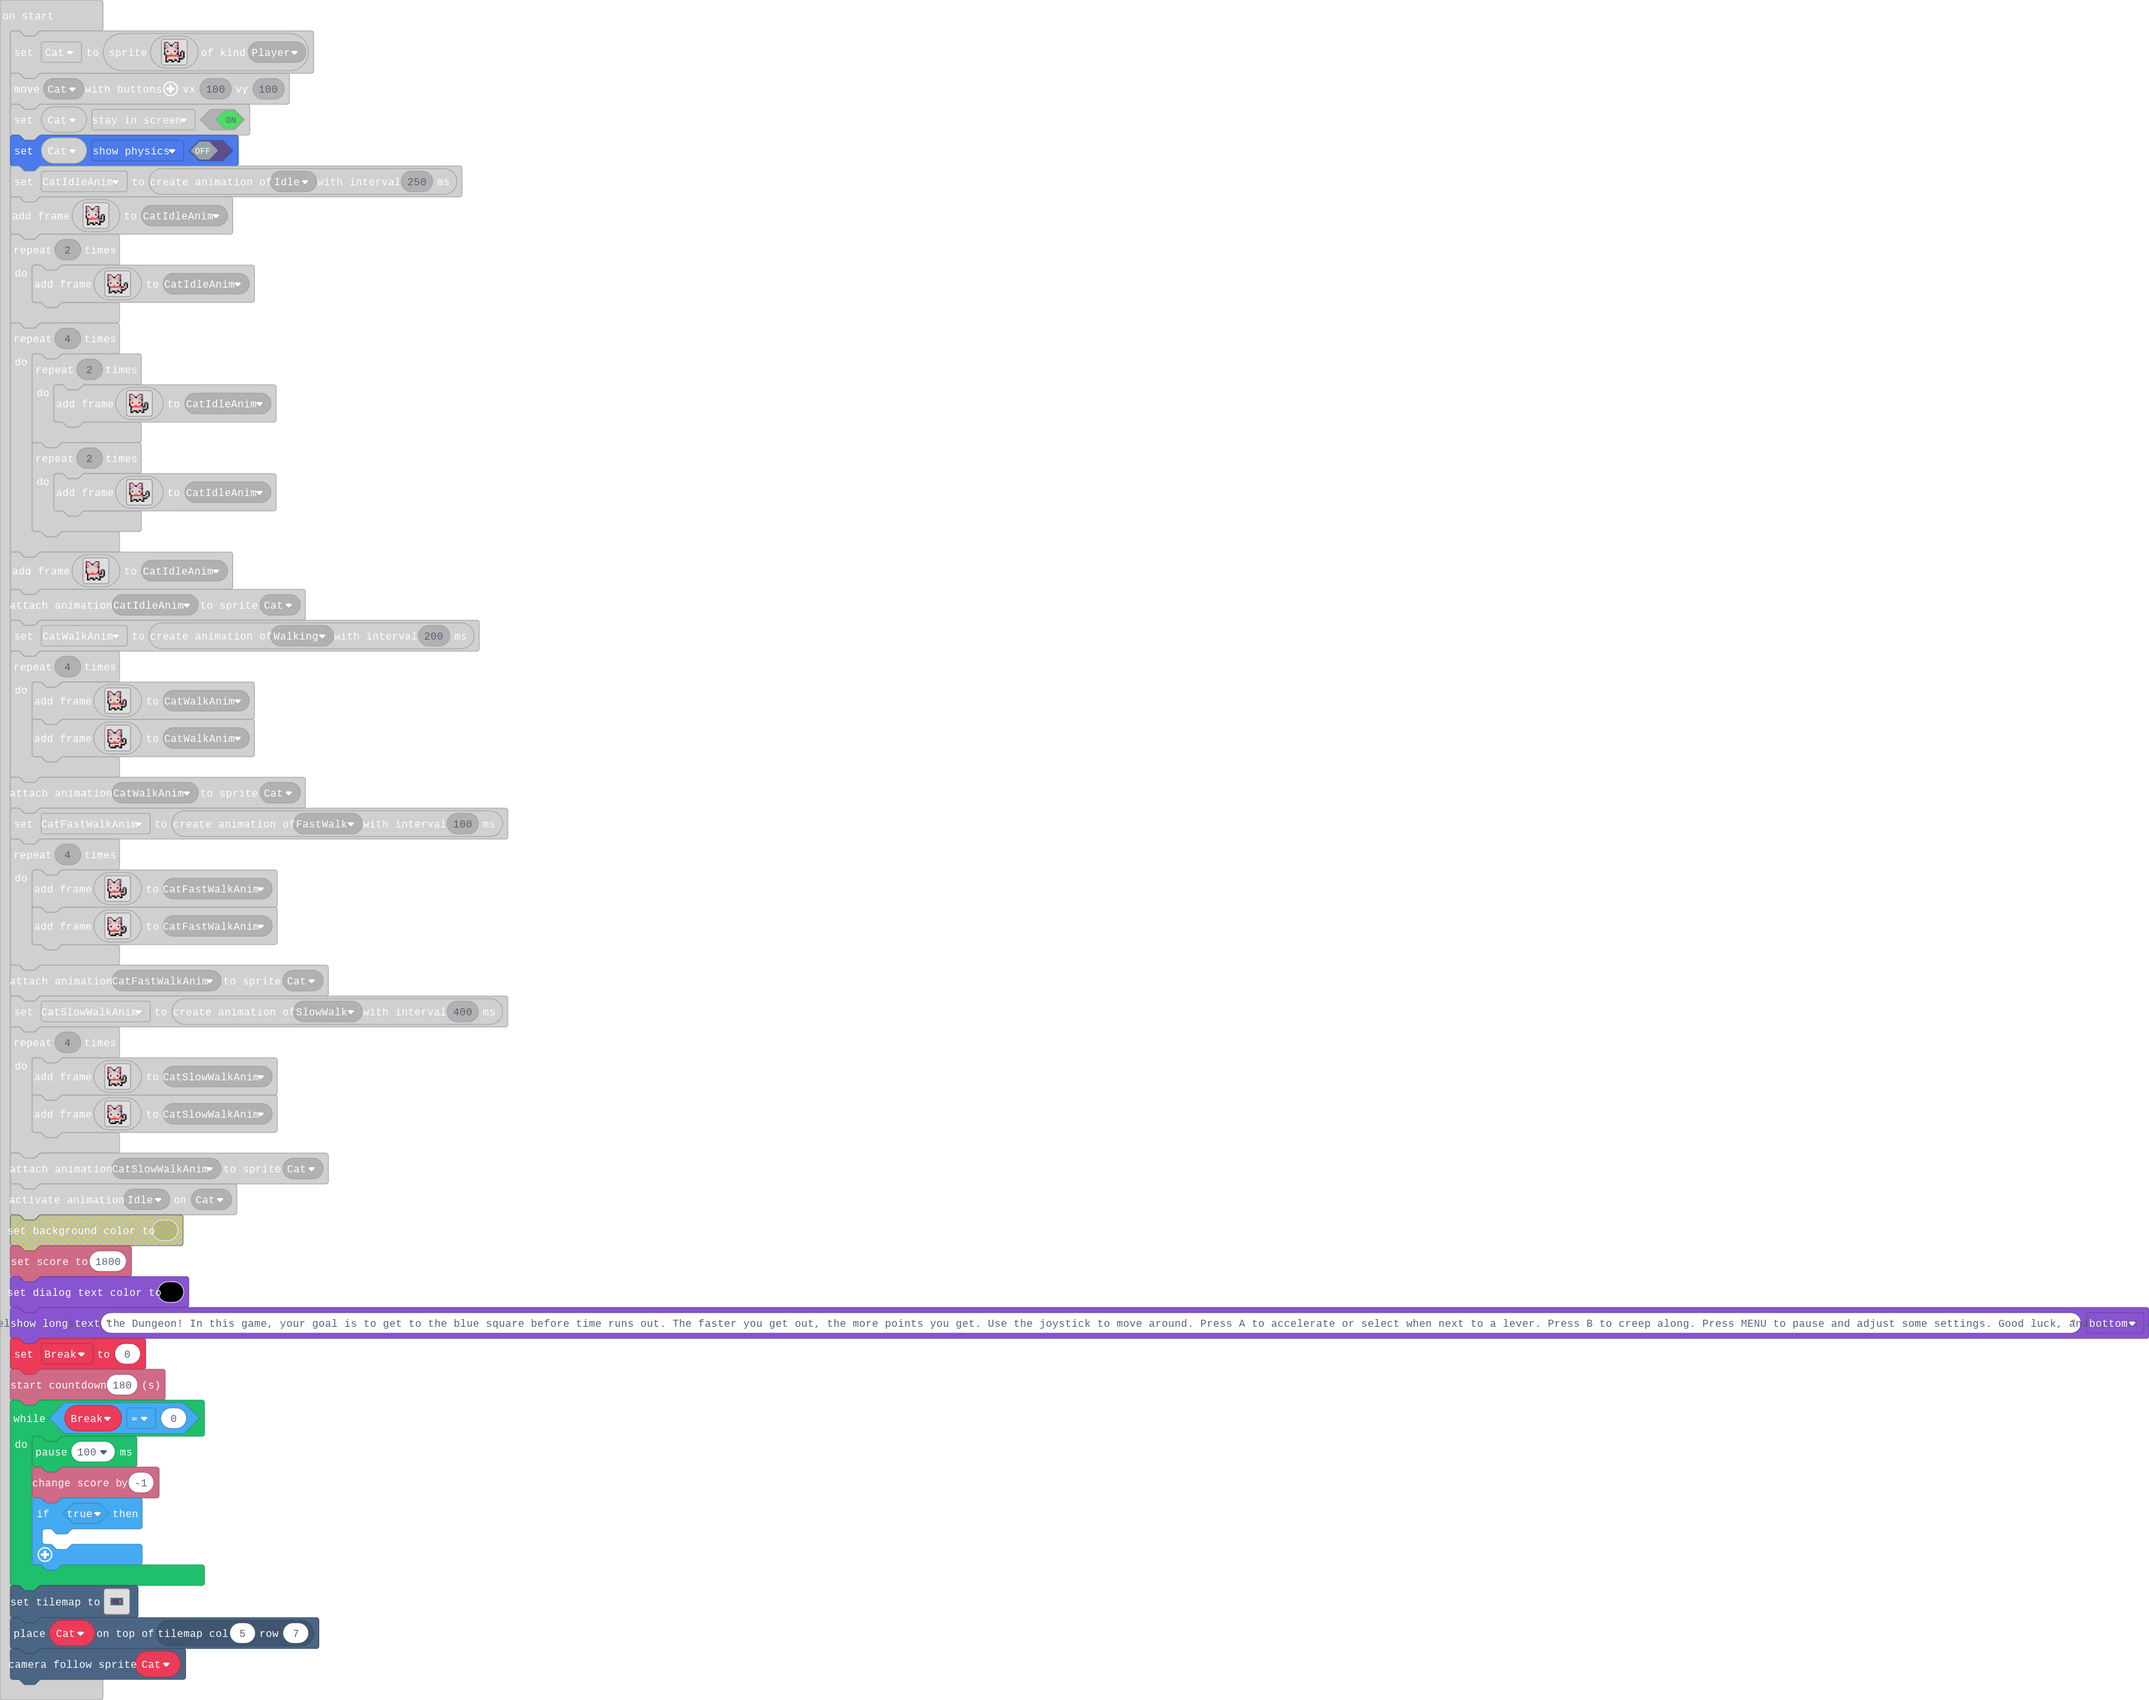
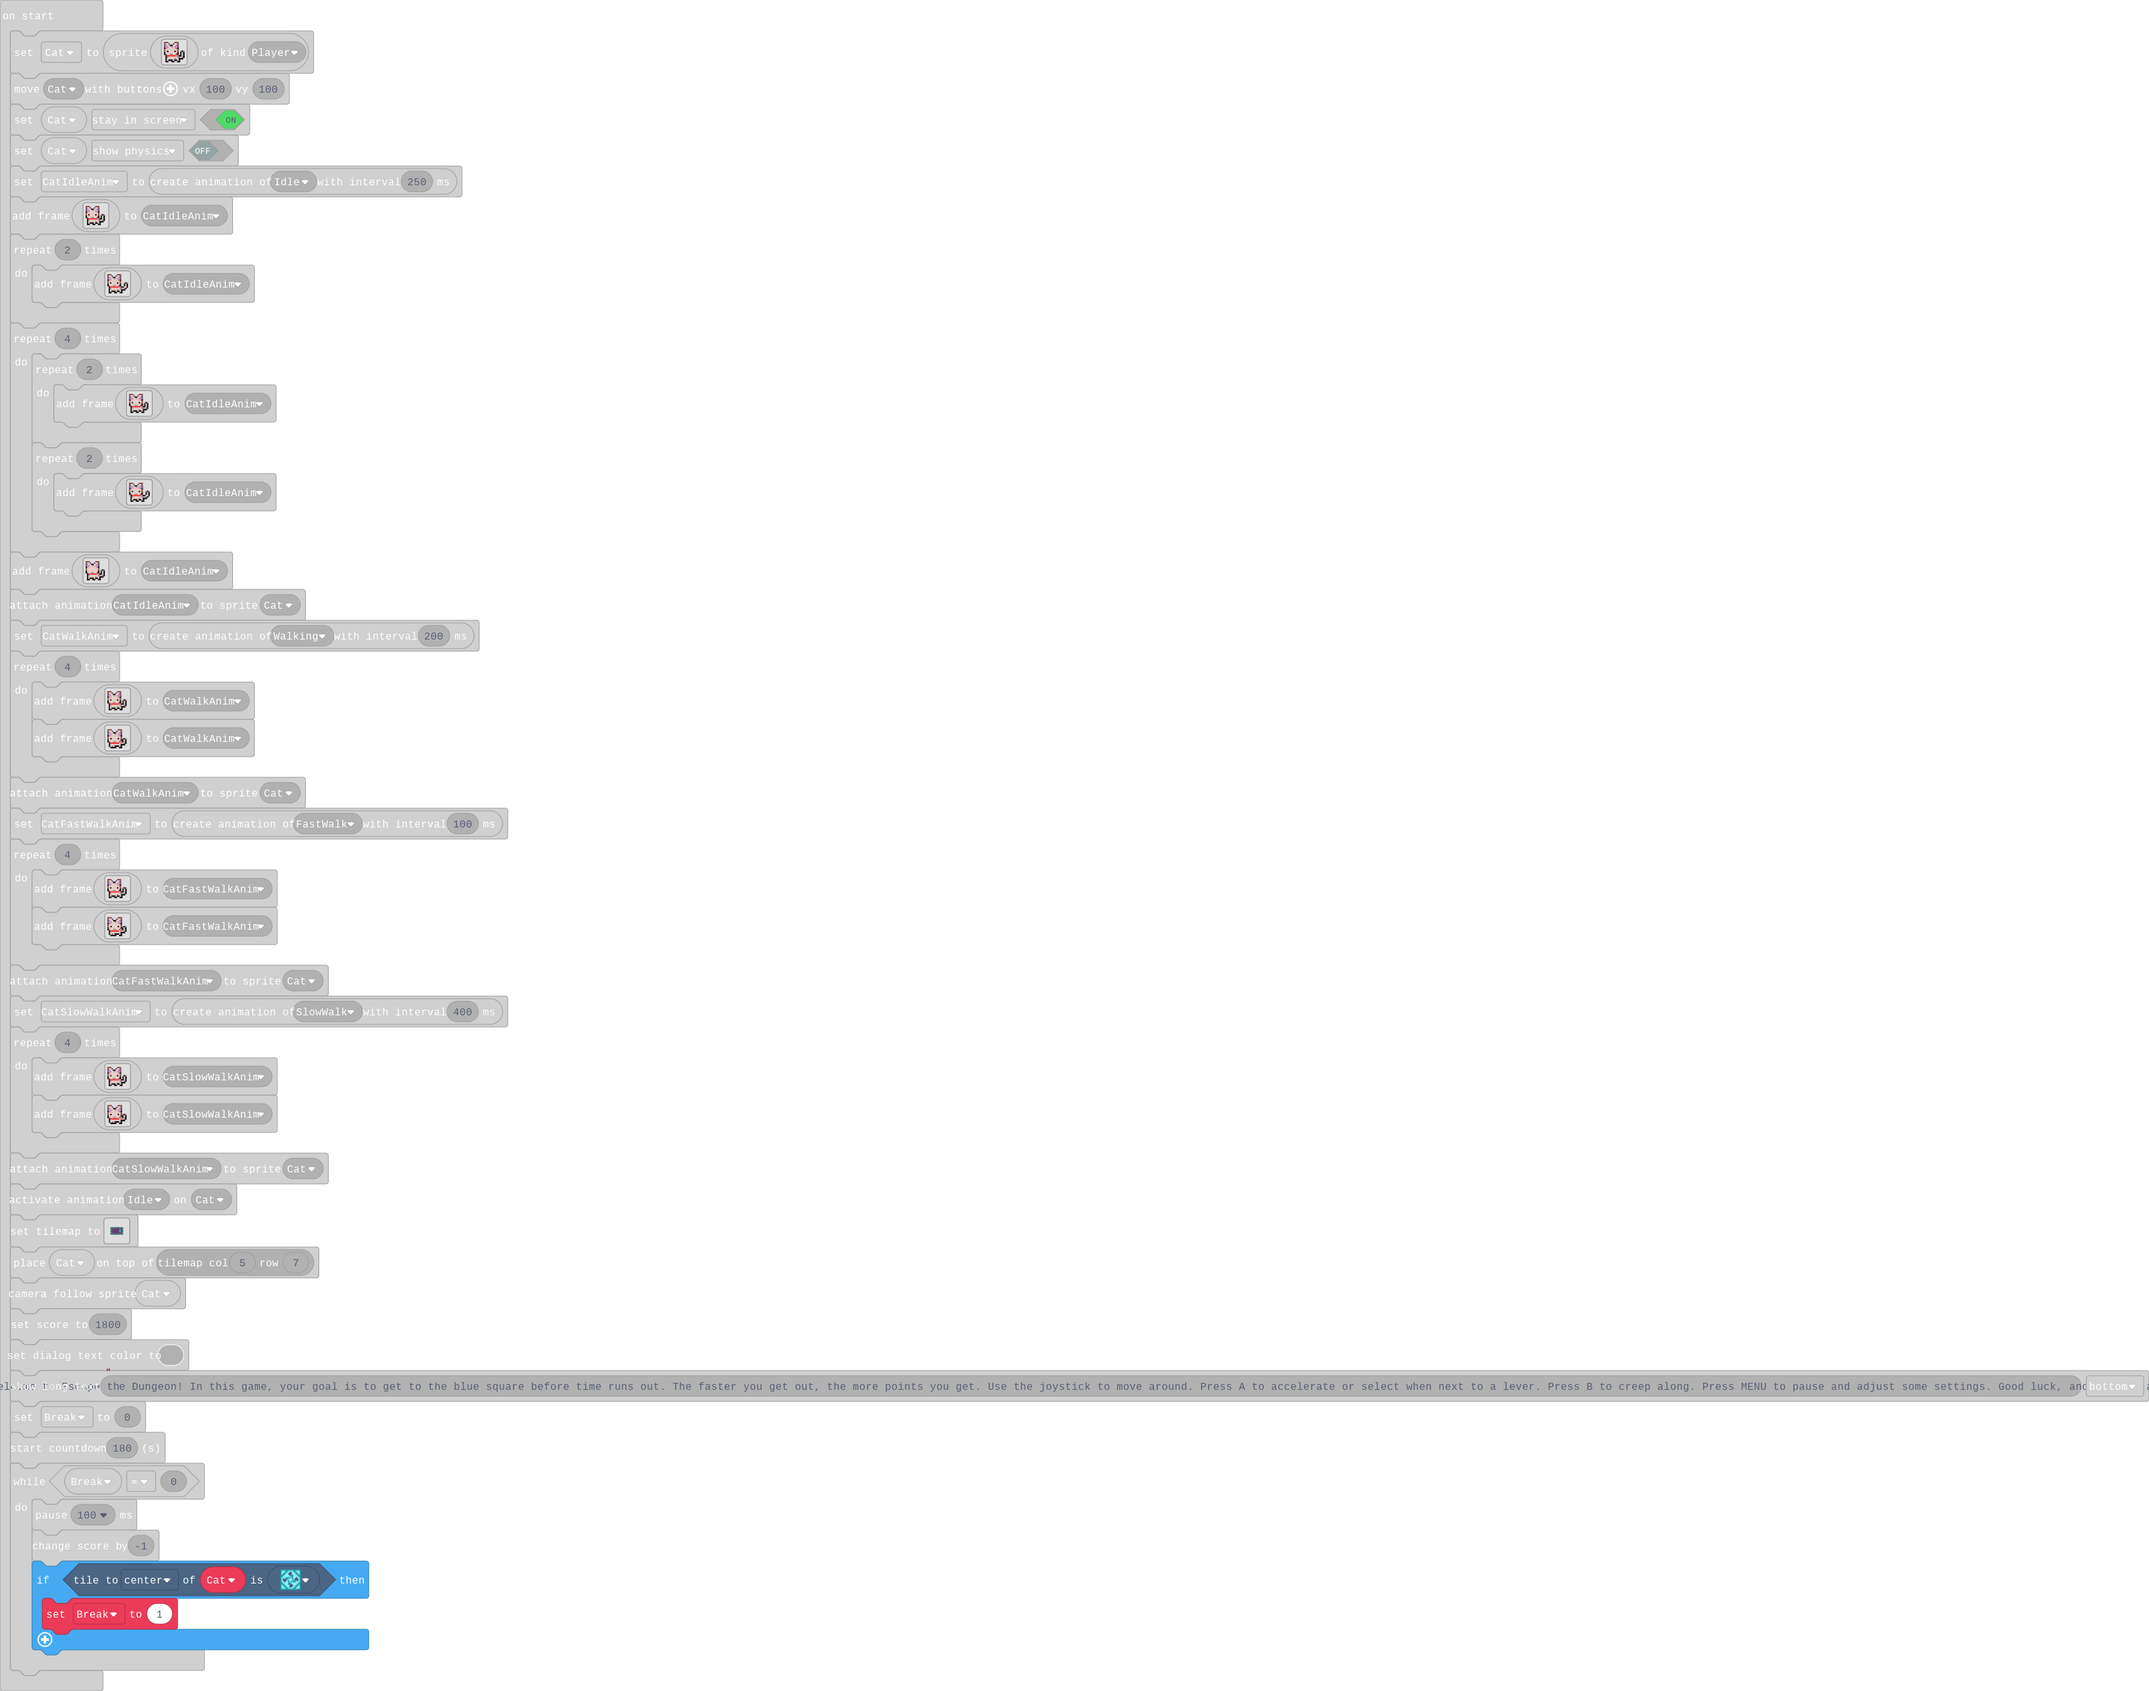
Update main.blocks, main.ts

Changed region(s): [[0.0, 0.0624, 1.0, 0.9985]]

diff --git a/main.ts b/main.ts
@@ -290,8 +290,8 @@ info.startCountdown(180)
 while (Break == 0) {
     pause(100)
     info.changeScoreBy(-1)
-    if (true) {
-    	
+    if (Cat.tileKindAt(TileDirection.Center, sprites.dungeon.collectibleInsignia)) {
+        Break = 1
     }
 }
 game.onUpdateInterval(100, function () {
